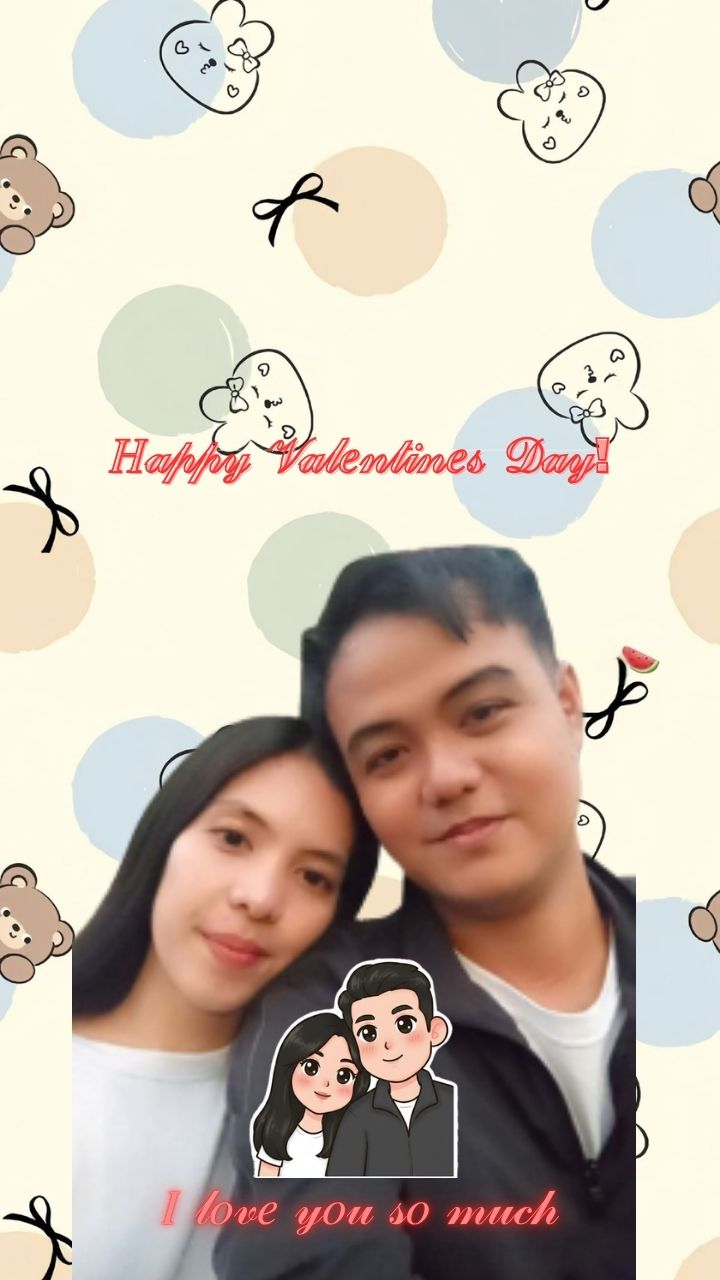
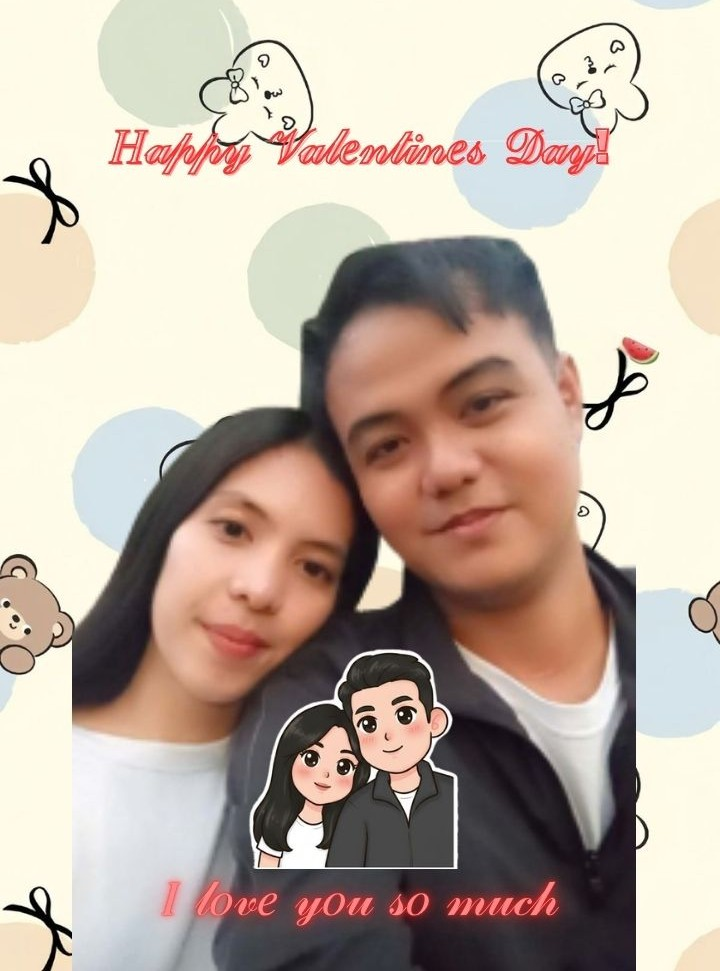
fdfregergfdfdfddsdsf

diff --git a/index.html b/index.html
@@ -1,41 +1,34 @@
-<!DOCTYPE html>
+<!doctype html>
 <html lang="en">
   <head>
     <meta charset="UTF-8" />
     <meta name="viewport" content="width=device-width, initial-scale=1.0" />
     <title>MY LOVE</title>
-      <link
-      href="https://cdn.jsdelivr.net/npm/flowbite@3.1.1/dist/flowbite.min.css"
-      rel="stylesheet"
-    />
+    <link href="https://cdn.jsdelivr.net/npm/flowbite@3.1.1/dist/flowbite.min.css" rel="stylesheet" />
     <script src="https://cdn.jsdelivr.net/npm/flowbite@3.1.1/dist/flowbite.min.js"></script>
     <script src="https://unpkg.com/@tailwindcss/browser@4"></script>
 
-    <link rel="preconnect" href="https://fonts.googleapis.com">
-<link rel="preconnect" href="https://fonts.gstatic.com" crossorigin>
-<link href="https://fonts.googleapis.com/css2?family=Dancing+Script:wght@400..700&family=Outfit:wght@100..900&display=swap" rel="stylesheet">
-
+    <link rel="preconnect" href="https://fonts.googleapis.com" />
+    <link rel="preconnect" href="https://fonts.gstatic.com" crossorigin />
+    <link href="https://fonts.googleapis.com/css2?family=Dancing+Script:wght@400..700&family=Outfit:wght@100..900&display=swap" rel="stylesheet" />
   </head>
 
-
-  <body style="background-image: url('happpyyy.jpg');" class="bg-cover">
-    
-
-  
-<div class="fixed bottom-8 left-0 right-0 flex justify-center">
-  <a href="letter.html" class="inline-block text-white bg-red-600 hover:bg-red-700 focus:ring-4 focus:ring-red-300 shadow-lg font-medium leading-5 rounded-full text-sm px-6 py-3">
-    Be my Valentine💋😘?
-  </a>
-</div>
-        
-      
+  <body
+    style="
+      background-image: url('𝐻𝒶𝓅𝓅𝓎 𝒱𝒶𝓁𝑒𝓃𝓉𝒾𝓃𝑒𝓈 𝒟𝒶𝓎!.jpg');
+      background-repeat: no-repeat;
+      background-size: cover;
+    "
+    class="bg-cover bg-no-repeat"
+  >
+    <div
+      class="fixed bottom-10 left-1/2 -translate-x-1/2 inline-block text-white bg-red-600 hover:bg-red-700 focus:ring-4 focus:ring-red-300 shadow-lg font-medium leading-5 rounded-full text-sm px-8 py-4 transition-transform hover:scale-105 whitespace-nowrap"
+    >
+      <a href="letter.html" class="flex justify-center text-center">
+        Be my Valentine💋😘?
+      </a>
     </div>
-
   </body>
 
-
-
   <script src="https://cdn.jsdelivr.net/npm/flowbite@4.0.1/dist/flowbite.min.js"></script>
-
-
 </html>
